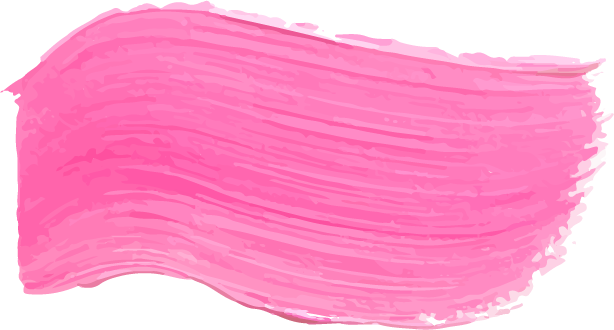
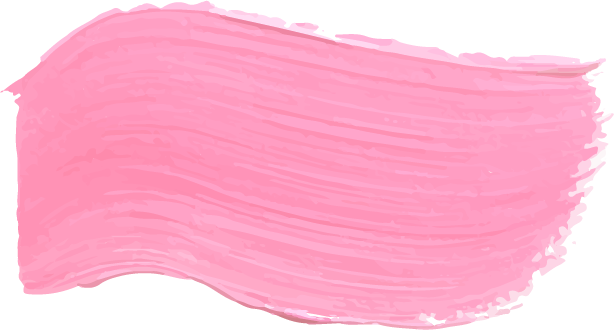
changed heading img width
decided too much hassle to manually set length of each heading, but this means I can't have long headings. changed colors of imgs to fit theme

diff --git a/contact.html b/contact.html
@@ -26,7 +26,7 @@
                     <div class="column">
                         <article>
                             <section>
-                                <div class="box" style="width:50%;"><img class="fancy-heading" src="resources/brushstroke-1.png" alt="image of a stroke of pink paint"><h2>contact</h2></div>
+                                <div class="box"><img class="fancy-heading" src="resources/brushstroke-1.png" alt="image of a stroke of pink paint"><h2>contact</h2></div>
                                 <p>
                                     have a question, product idea, or commission? want to
                                     collaborate on a project? fill out this form and
@@ -35,8 +35,8 @@
                                 </p>
                             </section>
                             <section>
-                                <div class="box" style="width:70%;"><img class="fancy-heading" src="resources/brushstroke-3.png" alt="image of a stroke of pink paint"><h2>commissions faq</h2></div>
-                                <h3>what services are available?</h3>
+                                <div class="box"><img class="fancy-heading" src="resources/brushstroke-3.png" alt="image of a stroke of pink paint"><h2>faq</h2></div>
+                                <h3>what commissions services are available?</h3>
                                 <ul>
                                     <li>photoshoot (graduation, professional headshot, businesses or products, and more) <a href="/photography.html">(examples)</a></li>
                                     <li>photo retouching</li>

diff --git a/about.html b/about.html
@@ -25,7 +25,7 @@
                 <div class="row">
                     <div class="column">
                         <article>
-                            <div class="box" style="width:50%;"><img class="fancy-heading" src="resources/brushstroke-1.png" alt="image of a stroke of pink paint"><h2>about</h2></div>
+                            <div class="box"><img class="fancy-heading" src="resources/brushstroke-1.png" alt="image of a stroke of pink paint"><h2>about</h2></div>
                             <p>
                                 out of lead was a project started by karen yi in college
                                 as an outlet for all of her creative interests. here, you'll

diff --git a/resources/css/index.css b/resources/css/index.css
@@ -143,7 +143,8 @@ article {
 }
 
 article .box {
-    margin-bottom: 1rem;
+    margin-bottom: 1.5rem;
+    width: 50%;
 }
 
 article h2 {
